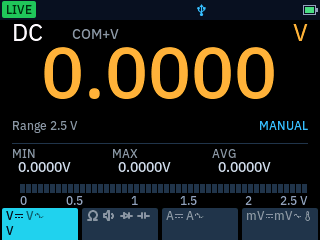
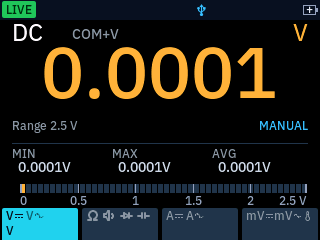
Release 0.21.12
Stabilize the Scope record label, align DMM bar notches with their labels, and match the dial to the active range. Refresh the README with ZT703S screenshots.

diff --git a/src/ui/components/meter_bar.cpp b/src/ui/components/meter_bar.cpp
@@ -19,6 +19,21 @@ void MeterBar::draw(lv_event_t *event) {
         lv_area_t segment = {lv_coord_t(area.x1 + i * Pitch), area.y1, lv_coord_t(area.x1 + i * Pitch + SegmentWidth - 1), area.y2};
         lv_draw_rect(layer, i < self.lit_ ? &on : &off, &segment);
     }
+    // GitHub #139: each number's notch, a cut through a lit segment, the numbers' colour elsewhere; the
+    // two ends always in the numbers' colour (the bar's end caps).
+    lv_draw_rect_dsc_t cut, mark;
+    lv_draw_rect_dsc_init(&cut); lv_draw_rect_dsc_init(&mark);
+    cut.bg_color = lv_color_hex(self.face_); mark.bg_color = lv_color_hex(self.muted_);
+    const int labels = self.scale_.labels();
+    for (int i = 0; i < labels; ++i) {
+        const int x = tickX(i, labels) - BarX;
+        const int first = x - (i + 1 == labels), last = x + (i == 0); // Widen the end marks inward.
+        for (int column = first; column <= last; ++column) {
+            const bool lit = first == last && column % Pitch < SegmentWidth && column / Pitch < self.lit_;
+            const lv_area_t notch = {lv_coord_t(area.x1 + column), area.y1, lv_coord_t(area.x1 + column), area.y2};
+            lv_draw_rect(layer, lit ? &cut : &mark, &notch);
+        }
+    }
 }
 void MeterBar::create(lv_obj_t *parent) {
     initialized_ = false; lit_ = 0;
@@ -27,7 +42,7 @@ void MeterBar::create(lv_obj_t *parent) {
     bar_ = lv_obj_create(parent);
     lv_obj_remove_style_all(bar_);
     lv_obj_set_pos(bar_, BarX, 65);
-    lv_obj_set_size(bar_, Segments * Pitch - 1, Height);
+    lv_obj_set_size(bar_, Width, Height);
     lv_obj_set_scrollable(bar_, false);
     lv_obj_add_event_cb(bar_, draw, LV_EVENT_DRAW_MAIN, this);
     for (auto *&label : ticks_) {
@@ -40,11 +55,12 @@ void MeterBar::create(lv_obj_t *parent) {
     decimals_ = 255; unit_[0] = 0;
     scale(dmm::BoardScale, 255, "");
     lv_obj_set_style_text_align(state_, LV_TEXT_ALIGN_CENTER, 0);
-    palette({0, 0, muted_, 0, off_, 0, overload_});
+    palette({face_, 0, muted_, 0, off_, 0, overload_});
 }
 void MeterBar::palette(const MeterPalette &palette) {
-    const bool repaint = palette.line != off_ || palette.alert != overload_;
-    off_ = palette.line; overload_ = palette.alert; muted_ = palette.muted;
+    const bool repaint = palette.line != off_ || palette.alert != overload_ || palette.muted != muted_ ||
+                         palette.background != face_; // The notches' colours too.
+    off_ = palette.line; overload_ = palette.alert; muted_ = palette.muted; face_ = palette.background;
     Elements::textColor(sign_, muted_);
     for (auto *tick : ticks_) Elements::textColor(tick, muted_);
     Elements::textColor(state_, MeterText::alert(status_) ? overload_ : muted_);
@@ -61,15 +77,17 @@ void MeterBar::visible(bool value) {
     visible_ = value;
     showTicks();
 }
-// The end labels align with the ends of the bar. Move an intermediate label left only if a wide
-// label to its right needs the space, such as the full-scale label with the engineering unit.
+// Each number on its notch (GitHub #139): the first starts and the last ends there, the others are
+// centred on it. Move an intermediate label left only if a wide label to its right needs the space,
+// such as the full-scale label with the engineering unit.
 void MeterBar::scale(dmm::CountScale counts, unsigned decimals, const char *unit) {
     const bool known = decimals <= 6;
+    if (counts != scale_) lv_obj_invalidate(bar_); // Its notches move with it.
     scale_ = counts; decimals_ = uint8_t(known ? decimals : 255);
     std::snprintf(unit_, sizeof unit_, "%s", known ? unit : "");
     const int labels = counts.labels(), last = labels - 1;
     const int stateLeft = StateX, stateRight = StateX + StateWidth; // The caption's box, as before.
-    int right = tickX(last, labels);
+    int right = tickX(last, labels) + 1; // Past the last number's right edge, its notch.
     for (int i = last; i >= 0; --i) {
         char text[24];
         MeterText::scaleNumber(counts.tickValue(i * counts.major), known ? decimals : 3, text, sizeof text);
@@ -81,7 +99,7 @@ void MeterBar::scale(dmm::CountScale counts, unsigned decimals, const char *unit
         lv_text_get_size(&size, text, Elements::font(12), 0, 0, LV_COORD_MAX, LV_TEXT_FLAG_NONE);
         const int width = std::max(1, int(size.x));
         const int tick = tickX(i, labels);
-        const int ideal = i == last ? tick - width : i ? tick - width / 2 : tick;
+        const int ideal = i == last ? tick + 1 - width : i ? tick - (width - 1) / 2 : tick;
         const int left = std::min(ideal, right - width);
         auto *label = ticks_[i];
         Elements::setText(label, text);
@@ -99,8 +117,7 @@ void MeterBar::showTicks() {
 }
 void MeterBar::update(const dmm::Result &result, DataStatus health, uint32_t accent,
                       const dmm::RelativeReading *relative, dmm::TemperatureAxis *axis) {
-    auto value = dmm::BarReading::from(result,health,relative,axis);
-    value.limitToRange(result);
+    const auto value = dmm::BarReading::from(result,health,relative,axis);
     const bool over = value.status == DataStatus::Overload;
     const auto color = over ? overload_ : value.status == DataStatus::Ok ? accent : 0x64748b;
     const int magnitude = std::abs(value.counts);

diff --git a/include/openosc/ui/components/meter_bar.hpp b/include/openosc/ui/components/meter_bar.hpp
@@ -2,30 +2,45 @@
 #include "openosc/ui/components/elements.hpp"
 #include "openosc/measurement/dmm/bar.hpp"
 #include "openosc/ui/components/meter_style.hpp"
+#include <algorithm>
 
 namespace openosc::ui {
 // Segmented bar in the style of a handheld DMM: zero at the left, magnitude to the right, a
-// separate polarity sign and the reading's scale (dmm::scaleFor: 25000 counts on the ZT703S, 66000 on
-// the ZT706S, 10000 for capacitance, 0-3.3 V for the diode) numbered in the active range's unit as the
+// separate polarity sign and the reading's scale (BarReading::rangeScale: 25000 counts on the ZT703S,
+// 66000 on the ZT706S, a range's own end where it comes first, 10000 for capacitance, 0-3.3 V for the diode) numbered in the active range's unit as the
 // analog dial numbers it (GitHub #134, MeterText::scaleNumber): 2.5 V reads 0, 0.5 ... 2.5 V, the unit
 // after the last number. Before a reading gives the decimals (no packet yet, a blank on another
 // scale), the numbers are thousands of counts without a unit; a blank or stale reading on the same
 // scale keeps the range's numbers. Temperature uses signed degree bands. Labels change only with the
 // scale, the decimals or the unit (no text work per packet).
+// GitHub #139: a notch marks each number's value on the segments, where valueX() places it; the
+// number is centred on it, the first starts and the last ends there. Each segment owns 1/Segments of
+// the scale over its cell (segment and gap), so the fill reaches a value's notch as it reaches the
+// value. A notch takes the numbers' colour over unlit segments and gaps and the face's colour over
+// lit ones (a cut): lighter or darker by the theme, never hidden by the fill. The two end notches are
+// two pixels wide, always in the numbers' colour. Notches move only with the scale; the fill alone
+// never moves them or the numbers.
 class MeterBar {
 public:
     void create(lv_obj_t *parent);
     void update(const dmm::Result &, DataStatus, uint32_t accent,
                 const dmm::RelativeReading *relative = nullptr, dmm::TemperatureAxis *axis = nullptr);
-    void palette(const MeterPalette &palette); // Unlit segments, scale text and the OL colour.
+    void palette(const MeterPalette &palette); // Unlit segments, scale text, the face and the OL colour.
     void visible(bool value);                   // The analog dial replaces the bar.
     void top(int y);                            // Its rows from y (sign, segments, numbers); default Top.
     static constexpr int Top = 63;
     // Tests: a number's label (0..labels - 1 of the scale on show).
     lv_obj_t *tick(int index) const { return index >= 0 && index < dmm::MaxScaleLabels ? ticks_[index] : nullptr; }
-    static constexpr int tickX(int index, int labels) { return BarX + index * Segments / (labels - 1) * Pitch; }
-private:
+    lv_obj_t *segments() const { return bar_; } // Tests: the segments' area.
     static constexpr int Segments = 48, Pitch = 6, SegmentWidth = 5, Height = 9, BarX = 8;
+    static constexpr int Cells = Segments * Pitch, Width = Cells - (Pitch - SegmentWidth); // 288 units, 287 px.
+    // The column (in the parent, from BarX) of the value numerator / denominator of the full scale: the
+    // nearest pixel to its place, the full scale on the last segment's last pixel.
+    static constexpr int valueX(int numerator, int denominator) {
+        return BarX + std::min(Width - 1, (2 * numerator * Cells + denominator) / (2 * denominator));
+    }
+    static constexpr int tickX(int index, int labels) { return valueX(index, labels - 1); } // A number's notch.
+private:
     static constexpr int StateX = BarX + 118, StateWidth = 52; // The state caption over the scale numbers.
     static constexpr int LabelGap = 2; // Between neighbouring numbers and around the state caption.
     static void draw(lv_event_t *event);
@@ -35,7 +50,7 @@ private:
     dmm::CountScale scale_ = dmm::BoardScale;
     uint8_t decimals_ = 255; // The numbers' decimals (255: thousands of counts) and unit, as labelled.
     char unit_[8]{};
-    uint32_t off_ = 0x243449, overload_ = 0xf87171, muted_ = 0x94a3b8;
+    uint32_t off_ = 0x243449, overload_ = 0xf87171, muted_ = 0x94a3b8, face_ = 0x0b1120;
     int lit_ = 0;
     uint32_t color_ = 0;
     DataStatus status_ = DataStatus::NoData;

diff --git a/include/openosc/measurement/dmm/bar.hpp b/include/openosc/measurement/dmm/bar.hpp
@@ -8,9 +8,9 @@
 #include <limits>
 
 namespace openosc::dmm {
-// The magnitude the bar and the dial show, in counts of the reading's own scale (scaleFor: the
-// board's, capacitance its 9999-count one, the diode its millivolts), clamped to its full scale;
-// overload pegs it with its sign.
+// The magnitude the bar and the dial show, in counts of the reading's own scale (rangeScale: the
+// board's or its range's, capacitance its 9999-count one, the diode its millivolts), clamped to its
+// full scale; overload pegs it with its sign.
 struct BarReading {
     CountScale scale = BoardScale;
     int counts = 0;
@@ -31,25 +31,29 @@ struct BarReading {
     // The unit of those numbers: the diode's are volts, also before a packet carries its unit.
     const char *unit(const Result &result) const { return scale == DiodeScale ? "V" : result.unit; }
 
-    // Some ranges end before the meter's digit capacity, for example 1000 V DC or 10 A.
-    // Give the digital bar five divisions over that range. Its fill and labels use the same span.
-    void limitToRange(const Result &result) {
-        if (scale != BoardScale) return;
-        const auto *range = Ranges::current(result);
+    // The scale of a reading in its range (GitHub #141): scaleFor's counts, or, where the reading's range
+    // ends before them (Ranges' manual full scale: 1000 V DC, 750 V AC and 10 A on both boards, the
+    // ZT703S's 250 MOhm), that range's own end in five labelled divisions, a minor tick every fifth of
+    // one where whole. The dial's numbers and needle and the bar's numbers and fill all use it, so the
+    // full deflection is the selected range's maximum. Capacitance keeps its nominal 10000 counts: its
+    // ranges end at 9999 (9.999 nF), the largest reading, 0.9999 of the nominal full scale (10 nF).
+    static CountScale rangeScale(const Result &result) {
+        const auto scale = scaleFor(result);
+        const auto *range = scale == BoardScale ? Ranges::current(result) : nullptr;
         NumericValue unitValue;
-        if (!range || !UnitParser::parse("1", range->unit, unitValue)) return;
+        if (!range || !UnitParser::parse("1", range->unit, unitValue) || unitValue.si <= 0) return scale;
         double rawMaximum = range->maximumSi / unitValue.si;
         for (unsigned i = 0; i < range->decimals; ++i) rawMaximum *= 10;
+        constexpr int Divisions = 5, Minor = 5;
         const int limit = int(std::lround(rawMaximum));
-        constexpr int Divisions = 5;
-        if (limit >= scale.fullScale || limit < Divisions || limit % Divisions) return;
-        scale = {limit, 1, 0, limit / Divisions};
-        counts = std::clamp(counts, -limit, limit);
+        if (limit >= scale.fullScale || limit < Divisions || limit % Divisions) return scale;
+        return limit % (Divisions * Minor) ? CountScale{limit, 1, 0, limit / Divisions}
+                                           : CountScale{limit, Minor, 0, limit / (Divisions * Minor)};
     }
     static BarReading from(const Result &result, DataStatus health,
                            const RelativeReading *relative = nullptr, TemperatureAxis *axis = nullptr) {
         BarReading bar;
-        bar.scale = scaleFor(result);
+        bar.scale = rangeScale(result);
         bar.temperature = result.primary.quantity == Quantity::Temperature;
         bar.status = health == DataStatus::Ok ? result.primary.status : health;
         const bool delta = relative && relative->matches(result);

diff --git a/include/openosc/ui/components/record_overview.hpp b/include/openosc/ui/components/record_overview.hpp
@@ -14,20 +14,23 @@ struct OverviewGeometry {
     static constexpr int None = -1, MinimumSpan = 2;
     uint32_t points = 0; // Points of every channel the frame holds: its record memory in use.
     uint32_t budget = 0; // The record budget the frame was captured for (FrameMetadata::budgetK); 0: none.
+    bool budgetShort = false; // Its plan shorter than the budget (FrameMetadata::budgetShort).
     int window = None, windowWidth = 0, analyzed = None, analyzedWidth = 0, trigger = None;
     bool before = false, after = false; // The view lies wholly before the record's start or past its end.
     static OverviewGeometry calculate(const scope::FrameMetadata &metadata, const plot::Viewport &viewport, plot::Mode mode,
                                       uint32_t analyzedPoints, int inside);
     static OverviewGeometry calculate(const plot::Model &model, int inside);
     bool operator==(const OverviewGeometry &o) const {
-        return points == o.points && budget == o.budget && window == o.window && windowWidth == o.windowWidth && analyzed == o.analyzed &&
+        return points == o.points && budget == o.budget && budgetShort == o.budgetShort && window == o.window && windowWidth == o.windowWidth && analyzed == o.analyzed &&
                analyzedWidth == o.analyzedWidth && trigger == o.trigger && before == o.before && after == o.after;
     }
     bool operator!=(const OverviewGeometry &o) const { return !(*this == o); }
 };
 // The record map at the right of the status bar: the caption names the record budget the frame was
-// captured for ("512K"), "<512K" when the frame holds fewer points (the DMA headroom the fastest
-// rates keep spare: GitHub #131), or, without a budget (Roll, a loaded record), the frame's own
+// captured for ("512K"), "<512K" when the capture plan reserves part of it (the DMA headroom the fastest
+// rates keep: GitHub #131, #138: FrameMetadata::budgetShort), the same for every record of that plan, held
+// or not, whatever length each record ends with (a freeze in flight varies it by a few points): "<" does not
+// flicker in RUN. Without a budget (Roll, a loaded record), the frame's own
 // total. The exact count is Acquisition's Captured row (and WAV:PRE?). The strip shows which part is
 // on screen and where the trigger lies. It follows HOLD pan and zoom; it is not a capture progress bar.
 // captionText(): that text for a geometry ("--" with no frame).

diff --git a/src/ui/components/record_overview.cpp b/src/ui/components/record_overview.cpp
@@ -68,6 +68,7 @@ OverviewGeometry OverviewGeometry::calculate(const scope::FrameMetadata &m, cons
     if (!m.valid() || inside < MinimumSpan) return g;
     g.points = m.samples * ((m.channels[0].enabled ? 1U : 0U) + (m.channels[1].enabled ? 1U : 0U));
     g.budget = uint32_t(m.budgetK) * 1024;
+    g.budgetShort = m.budgetShort;
     // Each point owns one unit of the record, so its last point still has a width.
     const int64_t length = int64_t(m.samples) << 16, last = int64_t(m.samples - 1) << 16;
     if (mode != plot::Mode::Spectrum && view.spanQ16) {
@@ -153,15 +154,17 @@ void RecordOverview::update(const plot::Model &model) {
     if (drawn_ && geometry == shown_ && split == split_ && analyzed == analyzedColor_) return;
     show(geometry, split, analyzed);
 }
-// The budget stays the caption whatever the rate (a stable setting, GitHub #131); "<" says the frame
-// holds fewer of its points, so it never claims samples the record does not have.
+// The budget stays the caption whatever the rate (a stable setting, GitHub #131); "<" says the capture plan
+// reserves part of it (#138: FrameMetadata::budgetShort); the record's exact length is Captured's.
 void RecordOverview::captionText(const OverviewGeometry &g, char *output, size_t capacity) {
     if (!output || !capacity) return;
     if (!g.points) { std::snprintf(output, capacity, "--"); return; } // No frame on show.
     if (!g.budget || g.points > g.budget) { plot::Format::compactPoints(g.points, output, capacity); return; }
     char total[8];
     plot::Format::compactPoints(g.budget, total, sizeof total);
-    std::snprintf(output, capacity, "%s%s", g.points < g.budget ? "<" : "", total);
+    // GitHub #138: "<" is the capture plan's: it reserves part of the budget (every record of it, held too),
+    // never one record's own length, which a freeze in flight varies by a few points (Captured is exact).
+    std::snprintf(output, capacity, "%s%s", g.budgetShort ? "<" : "", total);
 }
 void RecordOverview::show(const OverviewGeometry &g, bool split, uint32_t analyzedColor) {
     drawn_ = true;

diff --git a/include/openosc/acquisition/frame.hpp b/include/openosc/acquisition/frame.hpp
@@ -75,8 +75,11 @@ struct FrameMetadata {
     TriggerEdge triggerEdge; // What triggerIndex was found for (known only while triggered).
     // The record budget (points of every channel, in K) this capture was planned for; 0 for Roll, an
     // internal capture or a loaded record. The plan may keep part of it spare (SamplePlan's DMA
-    // headroom), so samples can be fewer. Display only (the status bar): not in any file format or SCPI reply.
+    // headroom, a ring shorter than the depth): budgetShort, the status bar's "<" (GitHub #138), set by
+    // the plan, so every record of it says the same, held or not, however many points a freeze in
+    // flight leaves each (samples is exact). Display only: not in any file format or SCPI reply.
     uint16_t budgetK = 0;
+    bool budgetShort = false;
     // InterleavedCh1 only: the HIGH ADC's correction this record is read with (InterleaveCorrection).
     float interleaveOffset = 0;
     // Immutable boot profile entry. Transferred file payloads already hold the corrected codes.

diff --git a/src/instrument/scope_capture.cpp b/src/instrument/scope_capture.cpp
@@ -555,7 +555,10 @@ bool DataAccess::startCapture() {
     // The budget the user's record was planned for: the status bar names it, never the request staged
     // later. Roll and internal captures (zero calibration, AutoSetup trials) name only what they hold.
     static_assert(scope::RecordBudget::Minimum % 1024 == 0 && scope::RecordBudget::Maximum / 1024 <= UINT16_MAX);
-    if (!rolling && !internalCapture()) metadata.budgetK = uint16_t(request_.recordPoints / 1024);
+    if (!rolling && !internalCapture()) {
+        metadata.budgetK = uint16_t(request_.recordPoints / 1024);
+        metadata.budgetShort = plan.count < request_.depth(); // The plan keeps part of the budget spare (#138).
+    }
     // The front end as this capture sets it (interleaved, CH1's range correction): its metadata says so.
     const auto frontend = appliedFrontend(request_);
     if (!frontend.interleave || rolling) interleave_.leave();

diff --git a/include/openosc/ui/components/analog_dial.hpp b/include/openosc/ui/components/analog_dial.hpp
@@ -7,7 +7,8 @@
 namespace openosc::ui {
 // A moving-coil panel meter: a wide arc whose radius follows the face's width (the pivot is below
 // the face), the numbers above it, the reading's scale (thousands of counts of the range,
-// dmm::scaleFor: 0-25 on the ZT703S, 0-66 on the ZT706S, 0-10 for capacitance and 0-3.3 V for the
+// dmm::BarReading::rangeScale: 0-25 on the ZT703S, 0-66 on the ZT706S, a range's own end where it
+// comes first, as 0-1000 V or 0-10 A (GitHub #141), 0-10 for capacitance and 0-3.3 V for the
 // diode on both), a needle with NeedleMotion inertia. Temperature uses signed degree bands instead
 // of magnitude. For other readings, like the bar, the needle shows the magnitude and a separate
 // minus at the lower left, before the scale in reading order, marks a negative reading; OL pegs it

diff --git a/README.md b/README.md
@@ -47,11 +47,19 @@ Captured on a ZT703S running OpenOSC. The Bode screens replay a recorded twin-T 
   </tr>
   <tr>
     <td><img src=".github/images/bode.png" width="320" alt="Bode analyzer: recorded twin-T sweep with f1 and f2 cutoffs and the f0 notch marker"></td>
-    <td><img src=".github/images/multimeter-range.png" width="320" alt="Multimeter: DC voltage on the 2.5 V range with bar graph ticks every 0.5 V"></td>
+    <td><img src=".github/images/multimeter-range.png" width="320" alt="Multimeter: DC voltage on the 2.5 V range with bar graph notches aligned to the 0.5 V scale"></td>
   </tr>
   <tr>
     <td align="center">Bode plot (recorded sweep replay)</td>
     <td align="center">Multimeter bar graph on the 2.5 V range</td>
+  </tr>
+  <tr>
+    <td><img src=".github/images/scope-record-memory.png" width="320" alt="Oscilloscope: 512K record memory at 140 MS/s, with a less-than marker for capture headroom"></td>
+    <td><img src=".github/images/multimeter-capacitance.png" width="320" alt="Multimeter analog capacitance view: 9.999 nF range with a nominal 10 nF dial"></td>
+  </tr>
+  <tr>
+    <td align="center">512K record memory at 140 MS/s</td>
+    <td align="center">Multimeter analog capacitance scale</td>
   </tr>
   <tr>
     <td><img src=".github/images/scope-readouts.png" width="320" alt="Oscilloscope: two readouts per channel, time cursors and the STOP status word"></td>
@@ -102,11 +110,11 @@ Captured on a ZT703S running OpenOSC. The Bode screens replay a recorded twin-T 
     <td align="center">UART baud rate detection</td>
   </tr>
   <tr>
-    <td><img src=".github/images/multimeter-analog.png" width="320" alt="Multimeter analog view: dial with REL reference and statistics"></td>
+    <td><img src=".github/images/multimeter-analog.png" width="320" alt="Multimeter analog view: 1 kV DC range with dial markings from 0 to 1000 V"></td>
     <td><img src=".github/images/generator.png" width="320" alt="Signal generator: sine at 1 kHz with frequency, waveform preview and soft-keys at the bottom"></td>
   </tr>
   <tr>
-    <td align="center">Multimeter, analog view</td>
+    <td align="center">Multimeter analog view, 1 kV DC range</td>
     <td align="center">Signal generator</td>
   </tr>
   <tr>
@@ -153,9 +161,10 @@ Captured on a ZT703S running OpenOSC. The Bode screens replay a recorded twin-T 
   Hold **F3** to set the trigger level to the signal midpoint and pretrigger to 50%. Pan with **F2**
 - Continuous Roll mode for slow timebases (200 ms/div and slower)
 - Record memory from 64K to 512K points across enabled channels. The record overview shows the
-  budget used for the displayed capture. A label such as `<512K` indicates a shorter capture.
-  The label keeps the same font size when the prefix appears. **Analyze → Acquisition → Captured**
-  shows the exact number of points per channel.
+  budget used for the displayed capture. A label such as `<512K` means the capture plan reserves part
+  of that budget, for example as DMA headroom at the fastest sample rates. The prefix depends on the
+  plan only, so it stays steady while the settings stay the same. **Analyze → Acquisition → Captured**
+  shows the exact number of points per channel in the displayed record.
 - In the default **Quick** profile, tap **AUTO** to start Auto Setup or cancel it in progress.
   Hold **AUTO** for 2 s in Y-T to open **Zoom & Pan**. Up/Down zoom the view, Left/Right pan, and
   **F4** returns to the previous card. The **Classic** profile uses a tap to reset pan and a hold to
@@ -208,7 +217,9 @@ Captured on a ZT703S running OpenOSC. The Bode screens replay a recorded twin-T 
   a repeated selection of the same function keeps it.
 - Large 72/80 px reading when the bar graph and statistics are off
 - Bar graph labels follow the active range in measurement units. The 2.5 V range runs from 0 to 2.5 V
-  in 0.5 V steps. The analog dial labels its scale in the reading's unit
+  in 0.5 V steps. A notch on the bar marks each labelled value. The analog dial labels its scale in
+  the reading's unit. On both the bar and the dial, ranges that end below the meter's counts, such as
+  1000 V DC, 750 V AC and 10 A, reach full scale at the end of the range
 
 **Signal generator**
 
